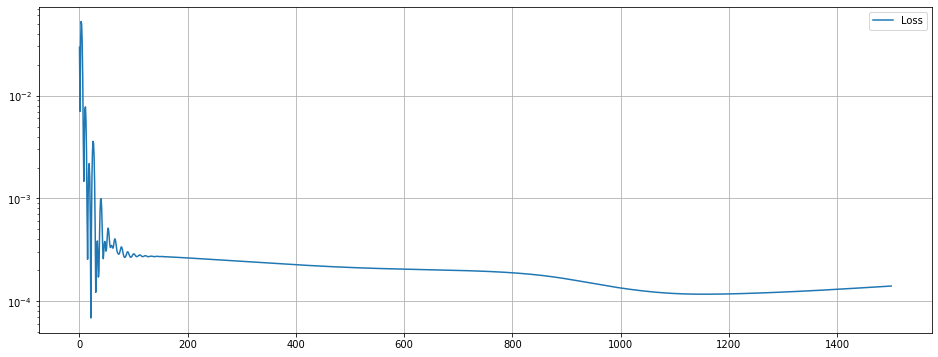
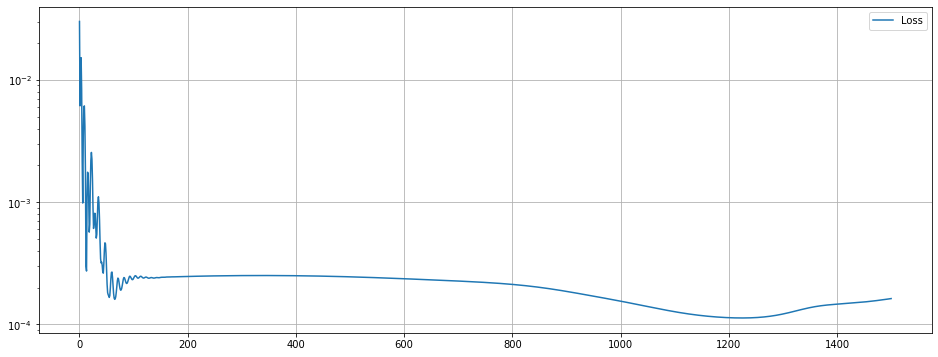
minor changes

Changed region(s): [[0.0, 0.0616, 0.9893, 0.8936], [0.0, 0.8936, 0.0309, 0.9244], [0.0, 0.8319, 0.0309, 0.8627]]

diff --git a/tutorials/tutorial3/tutorial.py b/tutorials/tutorial3/tutorial.py
@@ -78,7 +78,7 @@ class Wave(TimeDependentProblem, SpatialProblem):
 problem = Wave()
 
 
-# After the problem, a **torch** model is needed to solve the PINN. With the `Network` class the users can convert any **torch** model in a **PINA** model which uses label tensors with a single line of code. We will write a simple residual network using linear layers.
+# After the problem, a **torch** model is needed to solve the PINN. With the `Network` class the users can convert any **torch** model in a **PINA** model which uses label tensors with a single line of code. We will write a simple residual network using linear layers. Here we implement a simple residual network composed by linear torch layers.
 # 
 # This neural network takes as input the coordinates (in this case $x$, $y$ and $t$) and provides the unkwown field of the Wave problem. The residual of the equations are evaluated at several sampling points (which the user can manipulate using the method `span_pts`) and the loss minimized by the neural network is the sum of the residuals.
 
@@ -93,7 +93,7 @@ class TorchNet(torch.nn.Module):
         self.residual = torch.nn.Sequential(torch.nn.Linear(3, 16),
                                             torch.nn.Tanh(),
                                             torch.nn.Linear(16, 3),
-                                            torch.nn.Tanh())  
+                                            torch.nn.Tanh())
         
         self.mlp = torch.nn.Sequential(torch.nn.Linear(3, 24),
                                        torch.nn.Tanh(),
@@ -127,7 +127,7 @@ pinn = generate_samples_and_train(model, problem)
 
 # After the training is completed one can now plot some results using the `Plotter` class of **PINA**.
 
-# In[5]:
+# In[7]:
 
 
 plotter = Plotter()
@@ -138,7 +138,7 @@ plotter.plot(pinn, fixed_variables={'t' : 0.5})
 
 # We can also plot the pinn loss during the training to see the decrease.
 
-# In[6]:
+# In[8]:
 
 
 import matplotlib.pyplot as plt

diff --git a/docs/source/_rst/tutorial3/tutorial.rst b/docs/source/_rst/tutorial3/tutorial.rst
@@ -85,7 +85,8 @@ predicted one.
 After the problem, a **torch** model is needed to solve the PINN. With
 the ``Network`` class the users can convert any **torch** model in a
 **PINA** model which uses label tensors with a single line of code. We
-will write a simple residual network using linear layers.
+will write a simple residual network using linear layers. Here we
+implement a simple residual network composed by linear torch layers.
 
 This neural network takes as input the coordinates (in this case
 :math:`x`, :math:`y` and :math:`t`) and provides the unkwown field of
@@ -104,7 +105,7 @@ the residuals.
             self.residual = torch.nn.Sequential(torch.nn.Linear(3, 16),
                                                 torch.nn.Tanh(),
                                                 torch.nn.Linear(16, 3),
-                                                torch.nn.Tanh())  
+                                                torch.nn.Tanh())
             
             self.mlp = torch.nn.Sequential(torch.nn.Linear(3, 24),
                                            torch.nn.Tanh(),
@@ -141,20 +142,20 @@ is not mandatory in the **PINA** framework.
 .. parsed-literal::
 
                   sum          gamma1nil_di gamma2nil_di gamma3nil_di gamma4nil_di t0initial_co Dwave_equati 
-    [epoch 00000] 3.696696e-01 2.948399e-02 1.348359e-01 1.414441e-01 2.550657e-02 2.666699e-02 1.173203e-02 
+    [epoch 00000] 1.949634e-01 3.005680e-02 6.441724e-02 3.294255e-02 6.325603e-02 3.027226e-03 1.263581e-03 
                   sum          gamma1nil_di gamma2nil_di gamma3nil_di gamma4nil_di t0initial_co Dwave_equati 
-    [epoch 00001] 1.295608e-01 7.026880e-03 4.988546e-02 4.242127e-02 8.680532e-03 1.438522e-02 7.161420e-03 
+    [epoch 00001] 7.217254e-02 6.137958e-03 1.786630e-02 6.951613e-03 1.774752e-02 2.276723e-02 7.019176e-04 
                   sum          gamma1nil_di gamma2nil_di gamma3nil_di gamma4nil_di t0initial_co Dwave_equati 
-    [epoch 00250] 4.090840e-03 2.548697e-04 1.971033e-04 3.415658e-04 1.860978e-04 3.089011e-03 2.219297e-05 
+    [epoch 00250] 4.112188e-03 2.494386e-04 1.979993e-04 2.449287e-04 2.625131e-04 3.139852e-03 1.745588e-05 
                   sum          gamma1nil_di gamma2nil_di gamma3nil_di gamma4nil_di t0initial_co Dwave_equati 
-    [epoch 00500] 3.994201e-03 2.137229e-04 2.208564e-04 2.831228e-04 2.112072e-04 3.043587e-03 2.170474e-05 
+    [epoch 00500] 4.039850e-03 2.451004e-04 2.015663e-04 2.523335e-04 2.407064e-04 3.083990e-03 1.615283e-05 
                   sum          gamma1nil_di gamma2nil_di gamma3nil_di gamma4nil_di t0initial_co Dwave_equati 
-    [epoch 00750] 3.892737e-03 1.960989e-04 2.171265e-04 2.855759e-04 2.186773e-04 2.940620e-03 3.463851e-05 
+    [epoch 00750] 3.942152e-03 2.204387e-04 2.094181e-04 2.657159e-04 2.246564e-04 2.996444e-03 2.547864e-05 
                   sum          gamma1nil_di gamma2nil_di gamma3nil_di gamma4nil_di t0initial_co Dwave_equati 
-    [epoch 01000] 3.608999e-03 1.350552e-04 2.278226e-04 3.551233e-04 2.776817e-04 2.564327e-03 4.898960e-05 
+    [epoch 01000] 3.697490e-03 1.549838e-04 2.196791e-04 3.028835e-04 2.695825e-04 2.719009e-03 3.135128e-05 
                   sum          gamma1nil_di gamma2nil_di gamma3nil_di gamma4nil_di t0initial_co Dwave_equati 
-    [epoch 01250] 3.472723e-03 1.203779e-04 2.665457e-04 3.634643e-04 3.228022e-04 2.377785e-03 2.174835e-05 
-    [epoch 01500] 3.349001e-03 1.410526e-04 2.640025e-04 3.414921e-04 3.039106e-04 2.271722e-03 2.682119e-05 
+    [epoch 01250] 3.240117e-03 1.137412e-04 1.829536e-04 3.278378e-04 3.354096e-04 2.235723e-03 4.445175e-05 
+    [epoch 01500] 2.537301e-03 1.627188e-04 2.738914e-04 2.418139e-04 2.438446e-04 1.509327e-03 1.057045e-04 
 
 
 After the training is completed one can now plot some results using the

diff --git a/tutorials/README.md b/tutorials/README.md
@@ -7,5 +7,6 @@ In this folder we collect useful tutorials in order to understand the principles
 |-------|---------------|-------------------|
 | Tutorial1&#160;[[.ipynb](),&#160;[.py](),&#160;[.html]()]| Coming soon |  |
 | Tutorial2&#160;[[.ipynb](tutorial2/tutorial.ipynb),&#160;[.py](tutorial2/tutorial.py),&#160;[.html](http://mathlab.github.io/PINA/_rst/tutorial1/tutorial-1.html)]| Poisson problem on regular domain using extra features | `SpatialProblem` |
+| Tutorial3&#160;[[.ipynb](tutorial3/tutorial.ipynb),&#160;[.py](tutorial3/tutorial.py),&#160;[.html]()]| Wave problem on regular domain using custom pytorch networks. | `SpatialProblem`, `TimeDependentProblem` |
 
 
